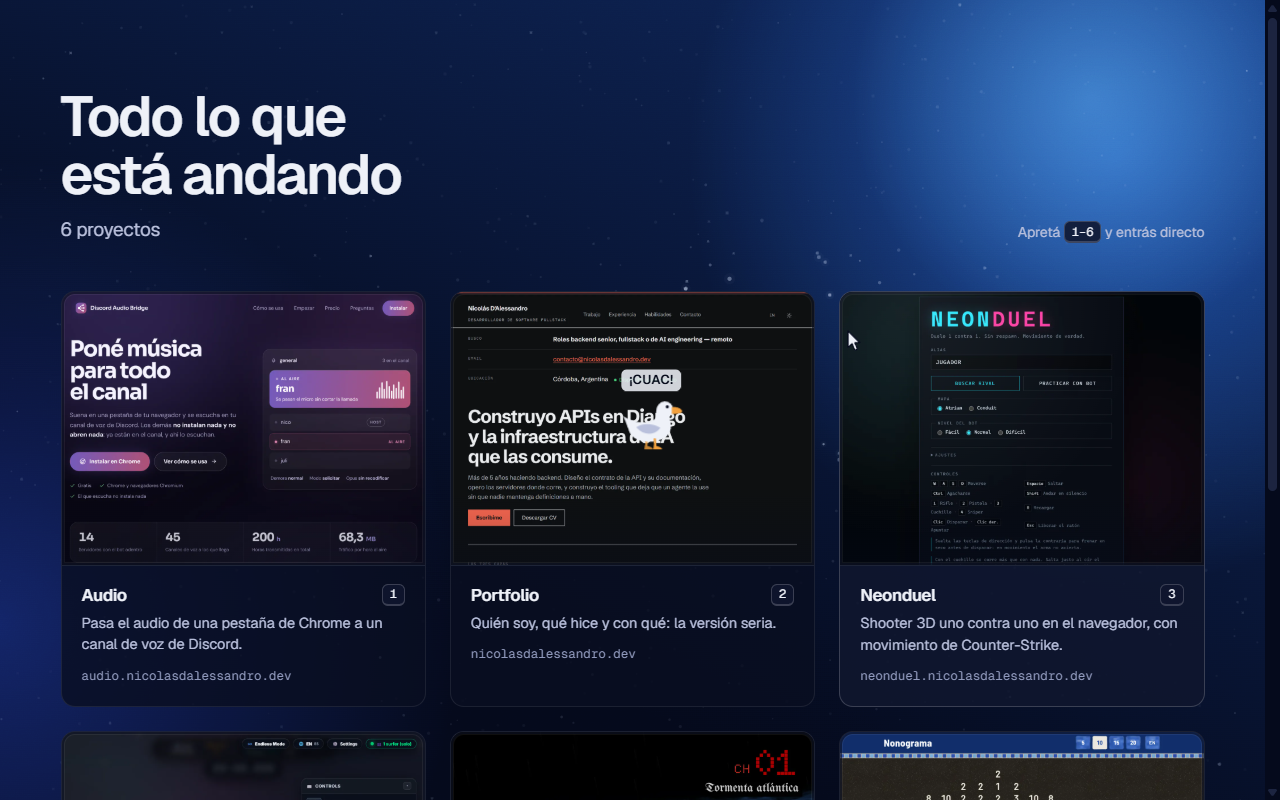
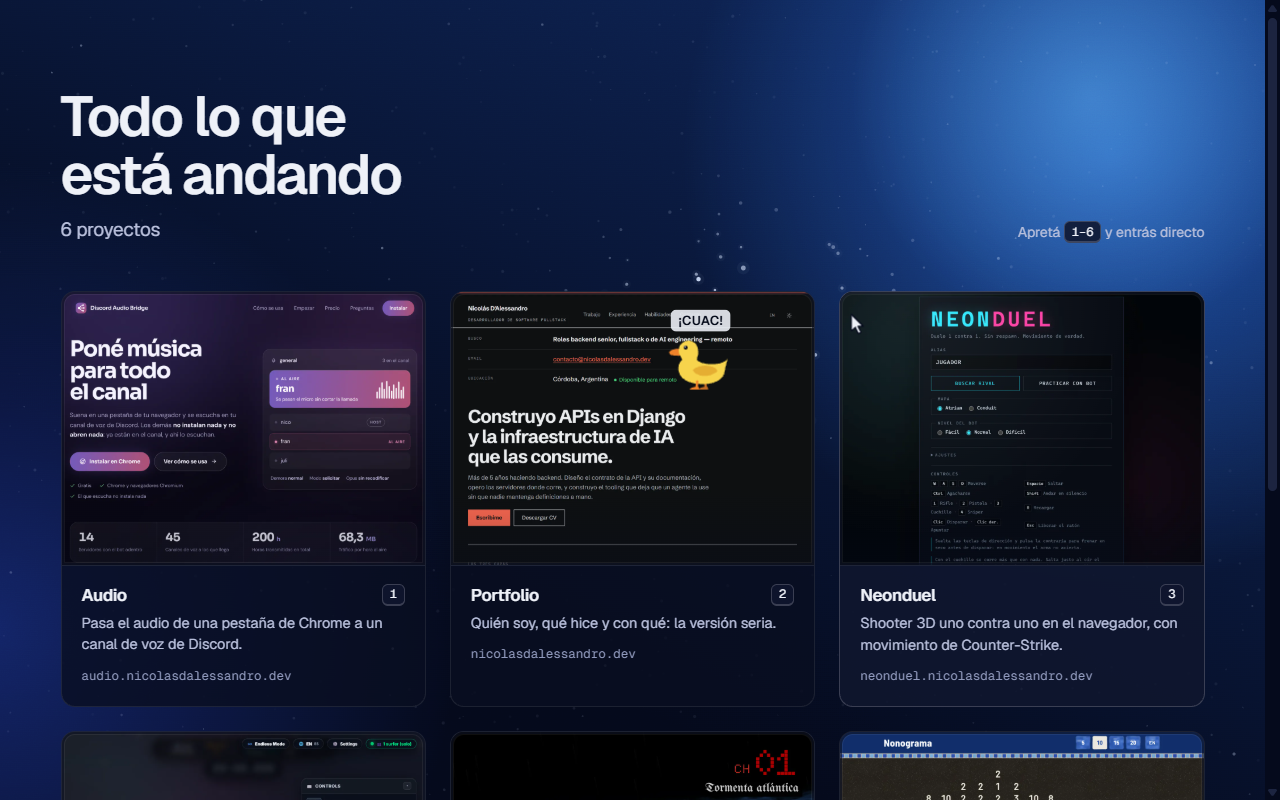
H17: el pato parece un pato, y ataca a los 10 s
El blanco con ala gris, cuerpo flaco y cola en punta parecia una gaviota.
Pasa a ser amarillo, panzon, de cuello corto y cabeza grande, con el pico
ancho y chato detras de la cabeza y la cola corta para arriba. El primer
ataque baja de 20 a 10 s (ADR-0015).

Gate: npm run gate
Rojo: ninguna semilla va por el cursor antes de los 20 s
Verde: 101 passed, build ok

Changed region(s): [[0.4688, 0.375, 0.5938, 0.5625], [0.6562, 0.4062, 0.6875, 0.4375]]

diff --git a/src/hub/Pato.tsx b/src/hub/Pato.tsx
@@ -34,7 +34,7 @@ interface Props {
 
 /**
  * El pato que pasea por encima del hub (ADR-0014): un SVG fijo a la ventana que camina a un punto al
- * azar, se para un rato y vuelve a caminar. Pasados los 20 s puede llevarse un cursor quieto: el
+ * azar, se para un rato y vuelve a caminar. Pasados los 10 s puede llevarse un cursor quieto: el
  * puntero real no se mueve, se esconde, y lo que se lleva en el pico es una flecha dibujada. Apenas
  * el mouse se mueve, la flecha vuelve al puntero real, el puntero reaparece y el pato hace «¡CUAC!».
  * Es decorado: queda fuera del árbol de accesibilidad y no ataja ningún click. Con movimiento
@@ -151,27 +151,29 @@ export function Pato({idioma, azar = Math.random}: Props) {
         <span className="pato__cuac">{texto(idioma, 'pato.cuac')}</span>
         <svg className="pato__dibujo" viewBox="0 0 64 56" width="64" height="56">
           <g className="pato__pata pato__pata--atras">
-            <path className="pato__pierna" d="M27.5 46 L27 53" />
-            <path className="pato__pie" d="M25.5 52.6 C28.5 52.6 31.6 53.4 33.6 55.2 L33.6 56 H25 Z" />
+            <path className="pato__pierna" d="M27.5 48 L27 53.5" />
+            <path className="pato__pie" d="M25 53.2 C28.5 53 31.8 53.6 33.8 55.2 L33.8 56 H24.4 Z" />
           </g>
           <g className="pato__cuerpo">
+            {/* El pico va primero: la cabeza le tapa la base, y nace de adentro. */}
+            <path
+              className="pato__pico"
+              d="M47.5 15.2 C53 14.6 59.5 15.2 62.5 17.2 C64 18.2 63.8 20.6 62 21.2 C58 22.4 52.5 22.4 47.5 21.6 Z"
+            />
             <path
               className="pato__pluma"
-              d="M4 23 C9 26 15 28.5 21 29 C27 29.5 33 28 36 25.5 C37.6 23.5 37 21.5 36.8 18.5 C36.8 12.5 41 8 45.5 8 C50 8 53.5 11.5 53.8 15.5 C54 19.5 51.5 21.5 50.5 23.5 C49.5 26 52.5 29 51.5 35 C50.5 43 42 48.5 30 48.5 C19 48.5 11.5 44 9.5 37 C8 32 6 27.5 4 23 Z"
+              d="M5 25.5 C8 28.5 12 30 17 30.5 C24 31 31 30 35 27.5 C36.5 26 35.5 23.5 34.6 21 C33.5 12 38.5 7 44 7 C50 7 54 11.5 54 17 C54 21 51.5 23.5 50.5 26 C54 29 55.5 34 53.5 39.5 C51 46.5 42 50.5 30 50.5 C19 50.5 11 47 8.5 40 C7.5 36 7 31 5 25.5 Z"
             />
             <path
               className="pato__ala"
-              d="M17 34 C23.5 29.5 34 30 41 34.5 C36 42 24.5 43 17 34 Z"
+              d="M17.5 34.5 C24 30.5 35.5 31.5 40 36.5 C36 43.5 25 44.5 16 38.5 C15 37 15.8 35.4 17.5 34.5 Z"
             />
-            <path
-              className="pato__pico"
-              d="M52.5 13.8 C57 13.3 61 14.5 62.8 17.4 C63.3 18.3 62.7 19.4 61.6 19.7 C58.4 20.6 55 21 52.5 20.6 Z"
-            />
-            <circle className="pato__ojo" cx="48" cy="13.5" r="1.5" />
+            <circle className="pato__ojo" cx="47" cy="14" r="1.9" />
+            <circle className="pato__brillo" cx="47.6" cy="13.3" r="0.6" />
           </g>
           <g className="pato__pata pato__pata--adelante">
-            <path className="pato__pierna" d="M35.5 46 L36 53" />
-            <path className="pato__pie" d="M34.5 52.6 C37.5 52.6 40.6 53.4 42.6 55.2 L42.6 56 H34 Z" />
+            <path className="pato__pierna" d="M35.5 48 L36 53.5" />
+            <path className="pato__pie" d="M34 53.2 C37.5 53 40.8 53.6 42.8 55.2 L42.8 56 H33.4 Z" />
           </g>
         </svg>
       </div>

diff --git a/tests/andanzas.test.ts b/tests/andanzas.test.ts
@@ -148,20 +148,28 @@ function primerSecuestro(semilla: number): {instantes: Instante[]; indice: numbe
 const SEMILLAS = [1, 2, 3, 4, 5, 6, 7, 8];
 
 describe('el pato que secuestra el cursor', () => {
-  it('antes de los 20 s no va a buscar el cursor, aunque esté quieto desde el principio', () => {
+  it('antes de los 10 s no va a buscar el cursor, aunque esté quieto desde el principio', () => {
     for (const semilla of SEMILLAS) {
       const azar = azarConSemilla(semilla);
-      const instantes = vivir(nacer(VENTANA.ancho, VENTANA.alto, azar), 0, 20, azar);
+      const instantes = vivir(nacer(VENTANA.ancho, VENTANA.alto, azar), 0, 10, azar);
       expect(instantes.some(({pato}) => pato.fase === 'yendo' || pato.presa)).toBe(false);
     }
   });
 
-  it('después de los 20 s, con el cursor quieto, va a buscarlo hasta tenerlo en el pico', () => {
+  it('a los 10 s ya puede ir: con varias semillas, alguna va por el cursor antes de los 20 s', () => {
+    const primeros = SEMILLAS.map((semilla) => {
+      const {instantes} = primerSecuestro(semilla);
+      return instantes.find(({pato}) => pato.fase === 'yendo')?.reloj ?? Infinity;
+    });
+    expect(primeros.some((reloj) => reloj >= 10 && reloj < 20)).toBe(true);
+  });
+
+  it('pasados los 10 s, con el cursor quieto, va a buscarlo hasta tenerlo en el pico', () => {
     for (const semilla of SEMILLAS) {
       const {instantes, indice} = primerSecuestro(semilla);
       expect(indice).toBeGreaterThan(0);
       const yendo = instantes.findIndex(({pato}) => pato.fase === 'yendo');
-      expect(en(instantes, yendo).reloj).toBeGreaterThanOrEqual(20);
+      expect(en(instantes, yendo).reloj).toBeGreaterThanOrEqual(10);
       const {pato} = en(instantes, indice);
       expect(pato.presa).toEqual(CURSOR);
       expect(distancia(pico(pato), CURSOR)).toBeLessThan(10);

diff --git a/src/hub/andanzas.ts b/src/hub/andanzas.ts
@@ -59,8 +59,8 @@ const PAUSA_MAXIMA = 4;
 const MARGEN_COSTADO = 40;
 const MARGEN_ARRIBA = 70;
 const MARGEN_ABAJO = 12;
-/** Antes de esto no ataca nunca (lo pidió el usuario), en segundos de reloj. */
-const PRIMER_ATAQUE = 20;
+/** Antes de esto no ataca nunca (lo pidió el usuario, ADR-0015), en segundos de reloj. */
+const PRIMER_ATAQUE = 10;
 /** Lo que tiene que llevar quieto el cursor para que le interese, en segundos. */
 const QUIETO = 3;
 /** La chance de ir por el cursor cada vez que termina una pausa, si puede. */
@@ -71,7 +71,7 @@ const ESPERA_MAXIMA = 60;
 /** Lo que dura el «¡CUAC!», en segundos. */
 const CUAC = 1.2;
 /** Dónde está la punta del pico respecto de los pies, mirando a la derecha (el dibujo de Pato.tsx). */
-const PICO = {x: 29.5, y: 38};
+const PICO = {x: 30.5, y: 37.5};
 
 function entre(valor: number, minimo: number, maximo: number): number {
   // Una ventana más chica que los márgenes deja al pato en el medio.
@@ -153,7 +153,7 @@ function caminar(desde: Punto, hacia: Punto, velocidad: number, segundos: number
 
 /**
  * Un paso del pato. Pasea: camina hacia su destino, se para al llegar y, cuando se le acaba la
- * pausa, elige otro. Pasados los 20 s, cuando termina una pausa y hay un cursor quieto hace 3 s,
+ * pausa, elige otro. Pasados los 10 s, cuando termina una pausa y hay un cursor quieto hace 3 s,
  * puede ir a buscarlo; si el cursor se mueve, lo deja. Cuando lo tiene en el pico se lo lleva a la
  * otra mitad de la pantalla y lo suelta ahí. Depende del tiempo y no de los cuadros, y paseando
  * nunca sale de la ventana.

diff --git a/tests/pato.test.tsx b/tests/pato.test.tsx
@@ -100,13 +100,13 @@ describe('el pato del hub', () => {
 });
 
 describe('el secuestro del cursor', () => {
-  it('pasados los 20 s se lleva el cursor quieto: el real se esconde y la flecha aparece en su lugar', () => {
+  it('pasados los 10 s se lleva el cursor quieto: el real se esconde y la flecha aparece en su lugar', () => {
     medios({fino: true});
     const {container} = render(<Pato idioma="es" azar={azarConSemilla(1)} />);
     moverMouse(500, 400);
     const tardo = esperarSecuestro();
     expect(secuestrado()).toBe(true);
-    expect(tardo).toBeGreaterThanOrEqual(20_000);
+    expect(tardo).toBeGreaterThanOrEqual(10_000);
     const flecha = container.querySelector<HTMLElement>('.pato-flecha');
     expect(flecha?.dataset.visible).toBe('true');
     const donde = posicion(flecha as HTMLElement);

diff --git a/src/hub/pato.css b/src/hub/pato.css
@@ -23,15 +23,19 @@
 }
 
 .pato__pluma {
-  fill: var(--texto);
+  fill: var(--pato-pluma);
 }
 
 .pato__ala {
-  fill: var(--texto-2);
+  fill: var(--pato-ala);
 }
 
 .pato__ojo {
   fill: var(--fondo);
+}
+
+.pato__brillo {
+  fill: var(--texto);
 }
 
 .pato__pico,
@@ -53,16 +57,16 @@
 }
 
 .pato__pata--atras {
-  transform-origin: 27.5px 46px;
+  transform-origin: 27.5px 48px;
   opacity: 0.8;
 }
 
 .pato__pata--adelante {
-  transform-origin: 35.5px 46px;
+  transform-origin: 35.5px 48px;
 }
 
 .pato__cuerpo {
-  transform-origin: 30px 48px;
+  transform-origin: 30px 50px;
 }
 
 .pato[data-fase='caminando'] .pato__pata--atras {

diff --git a/src/estilos/base.css b/src/estilos/base.css
@@ -26,8 +26,11 @@
   --cielo-indigo: #15287a;
   --cielo-claro: #4a8fe6;
   --particula: #d6e4ff;
-  /* El pico y las patas del pato (ADR-0014): el único color cálido del hub, y no sale del pato. */
-  --pato-pico: #f2a03d;
+  /* El pato (ADR-0014): amarillo, con el ala un tono más oscura y el pico y las patas naranjas. Son
+     los únicos colores cálidos del hub, y no salen del pato. */
+  --pato-pluma: #f7d44c;
+  --pato-ala: #e5ae32;
+  --pato-pico: #f0832a;
 
   --letra: 'Geist Variable', system-ui, sans-serif;
   --letra-mono: 'Geist Mono Variable', ui-monospace, monospace;

diff --git a/DESIGN.md b/DESIGN.md
@@ -23,7 +23,9 @@ colors:
   cielo-indigo: "#15287a"
   cielo-claro: "#4a8fe6"
   particula: "#d6e4ff"
-  pato-pico: "#f2a03d"
+  pato-pluma: "#f7d44c"
+  pato-ala: "#e5ae32"
+  pato-pico: "#f0832a"
 typography:
   display:
     fontFamily: "Geist Variable, system-ui, sans-serif"
@@ -112,7 +114,7 @@ El mundo es un cielo azul fijo detrás de todo: un navy casi negro abajo a la iz
 
 La interacción firma del recuadro es una sola y se repite en cada uno: con hover o foco el borde se aclara, la superficie sube un tono, la preview se acerca un 3% y una luz radial sigue al puntero. Con el dedo el polvo deriva pero no reacciona. Con movimiento reducido el cielo queda quieto, el polvo tenue y sin reaccionar, y no hay zoom.
 
-Encima de todo pasea un pato (ADR-0014): blanco, vectorial, con el pico y las patas en el único naranja del hub. Camina a un punto al azar de la ventana, se para un rato y vuelve a caminar. No ataja ningún click y queda fuera del árbol de accesibilidad; con movimiento reducido no está.
+Encima de todo pasea un pato (ADR-0014): amarillo, vectorial, panzón y de pico ancho, con el pico y las patas naranjas; son los únicos colores cálidos del hub. Camina a un punto al azar de la ventana, se para un rato y vuelve a caminar. No ataja ningún click y queda fuera del árbol de accesibilidad; con movimiento reducido no está.
 
 **Key Characteristics:**
 - Un cielo azul fijo a pantalla completa: degradé de navy a azul francia, tres luces que derivan y se corren con el mouse, grano y un polvo que deriva solo y se enciende por donde pasa el puntero.
@@ -137,7 +139,11 @@ Las tres luces van en `mix-blend-mode: screen` y son también tres cuadrados del
 
 ### Tertiary
 - **Polvo** (`particula`): el color de las motas del canvas, que lo lee de la propiedad `color` del canvas. En reposo se ven al 4–14% de opacidad (unas pocas, al 26–36%); encendidas llegan a opacidad plena.
-- **Pico de pato** (`pato-pico`): el pico y las patas del pato, y nada más. Es el único color cálido del hub.
+- **Pluma de pato** (`pato-pluma`): el cuerpo del pato.
+- **Ala de pato** (`pato-ala`): el ala, un tono más oscura que la pluma.
+- **Pico de pato** (`pato-pico`): el pico y las patas del pato.
+
+Los tres son los únicos colores cálidos del hub, y no salen del pato.
 
 ### Neutral
 - **Navy noche** (`fondo`): el fondo de la página, la base y la esquina inferior izquierda del cielo, el `theme-color` y la base del favicon.
@@ -235,11 +241,11 @@ Fijo a pantalla completa, detrás de todo y fuera del árbol de accesibilidad.
 - **Quieto:** con `prefers-reduced-motion` las luces no derivan, no siguen al mouse y el polvo queda tenue y quieto; con el dedo el polvo deriva pero no reacciona.
 
 ### Pato
-El easter egg de ADR-0014. Un pato blanco de 64×56px, dibujado en SVG con formas lisas y sin contorno: plumas en `texto`, ala en `texto-2`, ojo en `fondo`, y pico y patas en `pato-pico`.
+El easter egg de ADR-0014. Un pato amarillo de 64×56px, dibujado en SVG con formas lisas y sin contorno: panzón, de cuello corto y cabeza grande, con el pico ancho y chato y la cola corta para arriba (el blanco con ala gris y cola en punta de H15 parecía una gaviota). Plumas en `pato-pluma`, ala en `pato-ala`, ojo en `fondo` con un brillo en `texto`, y pico y patas en `pato-pico`. El pico se dibuja detrás de la cabeza, que le tapa la base.
 - **Lugar:** fijo a la ventana, por encima de la grilla y del pie (`z-index` 2), con `pointer-events: none`. Su posición es la de los pies, y el dibujo se espeja alrededor de ese punto según para dónde camina.
 - **Paseo:** camina a 60 px/s hacia un punto al azar, a 40px de los costados, 70px de arriba y 12px de abajo; al llegar se queda parado entre 1 y 4 s y elige otro.
 - **Paso:** caminando, las patas giran ±22° desde la cadera, en contrafase, y el cuerpo se bambolea ±3° con 1,5px de rebote, en 0,42 s alternados. Parado no se mueve.
-- **Secuestro:** pasados 20 s de pestaña a la vista, al terminar una pausa y con un cursor quieto hace 3 s, va por él a 200 px/s (una chance de 0,6 cada vez). Si el cursor se mueve, lo deja. Cuando tiene la punta del pico sobre el cursor, `<html>` pasa a `data-pato="secuestro"`, que esconde el puntero real (`cursor: none`), y aparece la flecha dibujada. El pato la lleva mirándola, tironeando para atrás si hace falta, a 150 px/s, hasta la otra mitad de la pantalla, y la suelta ahí. La flecha enciende el polvo del cielo como el puntero.
+- **Secuestro:** pasados 10 s de pestaña a la vista (ADR-0015), al terminar una pausa y con un cursor quieto hace 3 s, va por él a 200 px/s (una chance de 0,6 cada vez). Si el cursor se mueve, lo deja. Cuando tiene la punta del pico sobre el cursor, `<html>` pasa a `data-pato="secuestro"`, que esconde el puntero real (`cursor: none`), y aparece la flecha dibujada. El pato la lleva mirándola, tironeando para atrás si hace falta, a 150 px/s, hasta la otra mitad de la pantalla, y la suelta ahí. La flecha enciende el polvo del cielo como el puntero.
 - **Flecha:** la flecha de un cursor de sistema, de 14×22px, en `texto` con un trazo de 1,2px en `fondo` y la punta en el punto exacto (`z-index` 3, `pointer-events: none`).
 - **Escape:** apenas el mouse se mueve, la flecha vuelve al puntero real en 0,15 s ease-out, el puntero reaparece y el pato hace «¡CUAC!» durante 1,2 s: un cartelito sobre el pato en `texto` con letra en `fondo`, Geist 600 a 13px, radio 6px, que aparece en 0,12 s. Después espera entre 30 y 60 s antes de volver a atacar.
 - **Táctil:** con el dedo pasea pero no ataca.
@@ -265,4 +271,4 @@ El easter egg de ADR-0014. Un pato blanco de 64×56px, dibujado en SVG con forma
 - **Don't** traer CRT, pixel art, neón ni arcoíris al cromo del hub. Las previews de los proyectos muestran lo que cada proyecto es, aunque sea pixel art o neón, y no se retocan.
 - **Don't** copiar las identidades vecinas: ni la ficha técnica de `portfolio4` (Schibsted Grotesk e IBM Plex Mono, filas etiqueta/valor) ni la tele de `museo`.
 - **Don't** mostrar la tecla en pantallas táctiles sin puntero fino.
-- **Don't** llevar `pato-pico` fuera del pato, ni dibujar al pato como sprite o pixel art, ni darle sombra proyectada.
+- **Don't** llevar los colores del pato fuera del pato, ni dibujar al pato como sprite o pixel art, ni darle sombra proyectada.

diff --git a/docs/backlog.md b/docs/backlog.md
@@ -201,9 +201,8 @@ ataque antes de los 20 segundos (después pidió 10, en
       pico ancho y chato y la cola corta para arriba
       ([ADR-0015](adr/0015-el-pato-hace-cuac-con-sonido.md) baja la espera a 10 s).
       *Test:* (node) antes de los 10 s de reloj, `andar` no va a buscar el cursor; con varias
-      semillas, alguna ataca entre los 10 y los 20 s; con el dibujo nuevo, la presa sigue en la punta
-      del `pico`. (jsdom) el secuestro llega pasados los 10 s. El dibujo se revisa en el navegador,
-      con captura.
+      semillas, alguna ataca entre los 10 y los 20 s. (jsdom) el secuestro llega pasados los 10 s. El
+      dibujo, y que la flecha quede en la punta del pico nuevo, se revisan en el navegador, con captura.
       **Se espera rojo:** ninguna semilla ataca antes de los 20 s.
 - [ ] **H18 — El pato hace cuac cada tanto, con sonido.** *Depende de H17.* El sonido se genera con
       Web Audio, sin archivos, y suena desde el primer click, toque o tecla en la página
